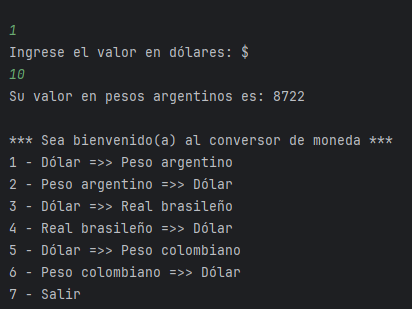
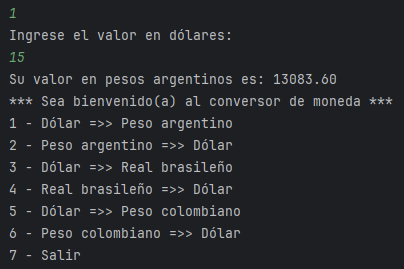
Update 2
Se pule el menú y se actualizan las imágenes para el README.md

Changed region(s): [[0.0, 0.5056, 0.5941, 0.9814], [0.0, 0.0297, 0.9802, 0.4758], [0.0, 0.9219, 0.0594, 0.9517]]

diff --git a/src/Main.java b/src/Main.java
@@ -33,7 +33,7 @@ public class Main {
                     System.out.printf("Su valor en pesos argentinos es: %.2f",(ValorConvertir * dolarArg));
                     break;
                 case 2:
-                    System.out.println("Ingrese el valor en pesos argentinos: $");
+                    System.out.println("Ingrese el valor en pesos argentinos: ");
                     ValorConvertir = teclado.nextDouble();
                     System.out.printf("Su valor en dólares es: %.2f",(ValorConvertir / dolarArg));
                     break;
